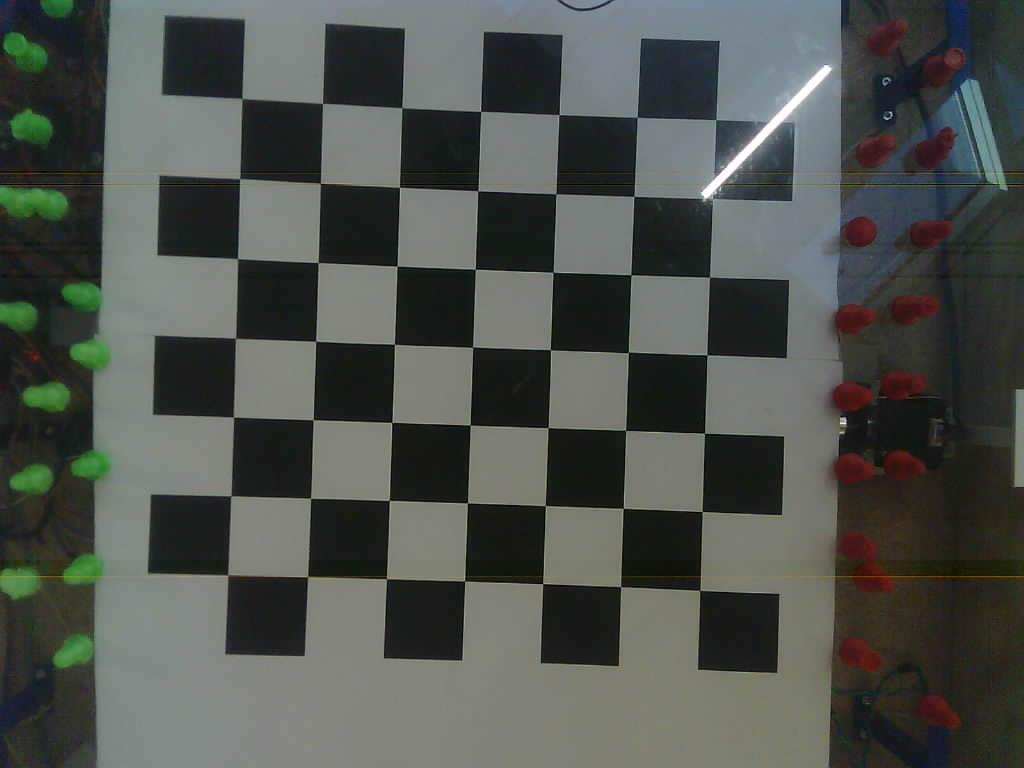
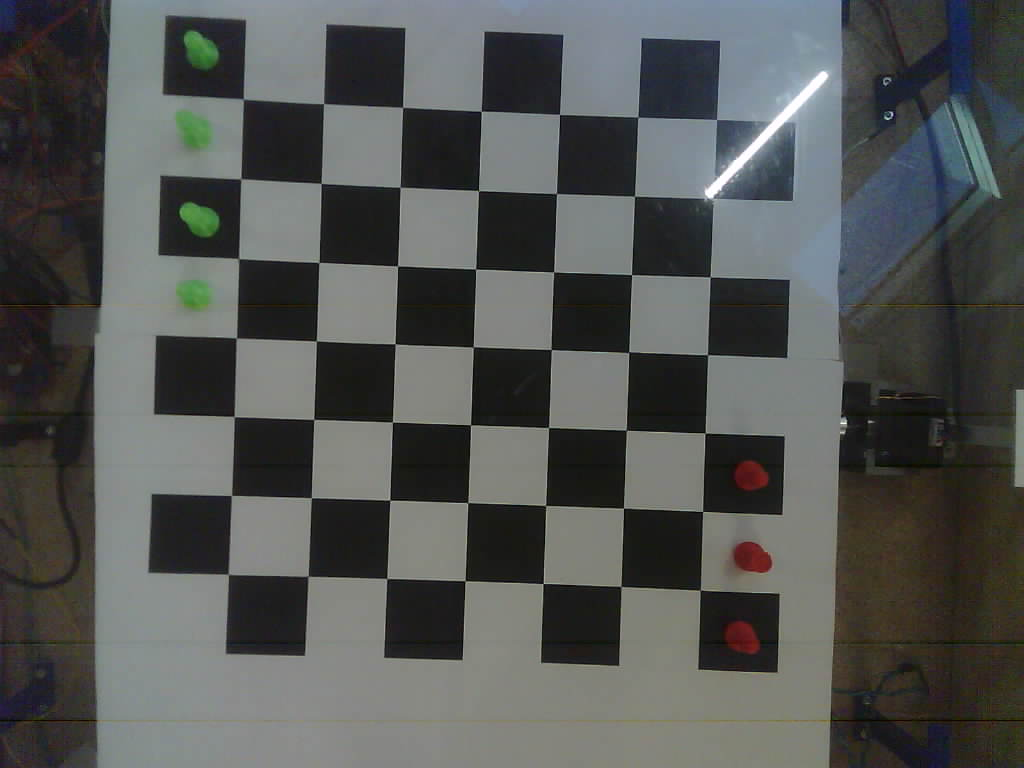
debug CV

diff --git a/Main Firmware/ComputerVision.py b/Main Firmware/ComputerVision.py
@@ -17,8 +17,6 @@ upper_red2 = np.array([180, 255, 255])
 lower_green = np.array([50, 70, 70])
 upper_green = np.array([70, 255, 255])
 
-
-
 """lower_red = np.array([0, 100, 100])
 upper_red = np.array([10, 255, 255])"""
 class ComputerVision:
@@ -45,22 +43,16 @@ class ComputerVision:
         return initial_position + final_position
     #returns the move object from the camera
     def get_player_move_from_camera(board):
-        print('a')
         ComputerVision.capture()
-        print('b')
         played_board = ComputerVision.process_image()
         #print(ComputerVision.convert_board(board))
-        print('c')
         move_player = ComputerVision.diff(board, played_board)
         print(move_player)
         return move_player
 
     def try_range(square):
-        """cv2.imshow("output", square)
-        cv2.waitKey(0)
-        cv2.destroyAllWindows()"""
         hsv = cv2.cvtColor(square, cv2.COLOR_BGR2HSV)
-        mask_green =  cv2.inRange(hsv, lower_green, upper_green)
+        mask_green = cv2.inRange(hsv, lower_green, upper_green)
         hasGreen = np.sum(mask_green)
 
         mask_red =  cv2.inRange(hsv, lower_red, upper_red)
@@ -76,10 +68,10 @@ class ComputerVision:
             return '.'
 
     def process_image():
-        cropXBegin = 170
-        cropXEnd = 250
-        cropYTop = 63
-        cropYBottom = 122
+        cropXBegin = 125
+        cropXEnd = 50
+        cropYTop = 250
+        cropYBottom = 175
         nline = 7
         ncol = 7
 
@@ -87,11 +79,10 @@ class ComputerVision:
         img = imutils.rotate_bound(img, -2)
         img = cv2.rotate(img, cv2.ROTATE_90_COUNTERCLOCKWISE)
         img = cv2.flip(img,1)
+        img = img[cropYTop:img.shape[0] - cropYBottom, cropXBegin:img.shape[1] - cropXEnd, :]
         cv2.imshow("output", img)
         cv2.waitKey(0)
         cv2.destroyAllWindows()
-        gray = cv2.cvtColor(img, cv2.COLOR_BGR2GRAY)
-        criteria = (cv2.TERM_CRITERIA_EPS + cv2.TERM_CRITERIA_MAX_ITER, 30, 0.001)
 
         x_list = []
         y_list = []
@@ -106,31 +97,25 @@ class ComputerVision:
                             y_list.append(int(coord))
                         is_x = not is_x
         else:
+            gray = cv2.cvtColor(img, cv2.COLOR_BGR2GRAY)
             ret, corners = cv2.findChessboardCorners(gray, (nline, ncol), None)
+            criteria = (cv2.TERM_CRITERIA_EPS + cv2.TERM_CRITERIA_MAX_ITER, 30, 0.001)
             corners2 = cv2.cornerSubPix(gray, corners, (11, 11), (-1, -1), criteria)
             cv2.drawChessboardCorners(img, (7, 7), corners2, ret)
+            cv2.namedWindow("output", cv2.WINDOW_NORMAL)
+            cv2.imshow("output", img)
+            cv2.waitKey(0)
+            cv2.destroyAllWindows()
             with open('square_indices.txt', 'w') as f:
                 for coord in corners2:
                     x_list.append(coord[0][1])
                     y_list.append(coord[0][0])
                     f.write("%d\n" % floor(coord[0][1]))
                     f.write("%d\n" % floor(coord[0][0]))
-                    
-        img = img[cropYTop:img.shape[0] - cropYBottom, cropXBegin:img.shape[1] - cropXEnd, :]
-        
-        cv2.imshow("output", img)
-        cv2.waitKey(0)
-        cv2.destroyAllWindows()
-
-
 
         board = img
         
-
-
-        #print(list(zip(x_list, y_list)))
-
-        reduce_cell = 1
+        reduce_cell = 0
 
         cell_nbr = 0
         from_x = 0
